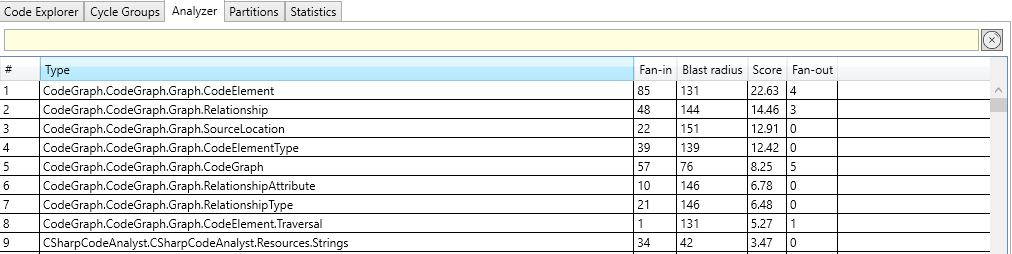
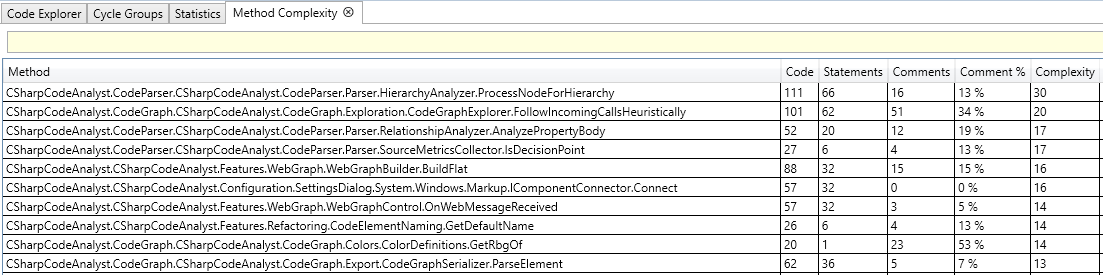
Clear rules if a new project is imported.

diff --git a/CSharpCodeAnalyst/Features/Analyzers/AnalyzerManager.cs b/CSharpCodeAnalyst/Features/Analyzers/AnalyzerManager.cs
@@ -45,16 +45,16 @@ internal class AnalyzerManager : IAnalyzerManager
     }
 
     /// <summary>
-    ///     Restores persistent data to all analyzers
+    ///     Restores persistent data to all analyzers.
+    ///     Analyzers without an entry in the given data are reset. Otherwise they would
+    ///     keep the state of the previously loaded project (e.g. architectural rules).
     /// </summary>
     public void RestoreAnalyzerData(Dictionary<string, string> data)
     {
         foreach (var analyzer in _analyzers.Values)
         {
-            if (data.TryGetValue(analyzer.Id, out var analyzerData))
-            {
-                analyzer.SetPersistentData(analyzerData);
-            }
+            data.TryGetValue(analyzer.Id, out var analyzerData);
+            analyzer.SetPersistentData(analyzerData);
         }
     }
 

diff --git a/CSharpCodeAnalyst/MainViewModel.cs b/CSharpCodeAnalyst/MainViewModel.cs
@@ -865,6 +865,10 @@ internal sealed class MainViewModel : INotifyPropertyChanged
             GraphViewModel?.ShowCompleteGraphCollapsed(parseResult.CodeGraph);
         }
 
+        // Reset analyzer state from the previously loaded project
+        // (e.g. architectural rules must not survive an import).
+        _analyzerManager.RestoreAnalyzerData([]);
+
         _gallery = new Gallery();
         _projectService.StartNewProject();
         IsCanvasHintsVisible = false;

diff --git a/README.md b/README.md
@@ -271,7 +271,7 @@ C# Code Analyst can calculate a few but meaningful metrics.
 
 You can read more about the supported metrics here: [Metrics](Documentation/Metrics.md)
 
-All metrics are accessible through the Analyzer Ribbon and the results are presented in the analyzer output table.
+All metrics are accessible via the Analyzer Ribbon, and the results are presented in a table on a separate tab
 
 ![](Documentation/Images/metrics-example.png)
 